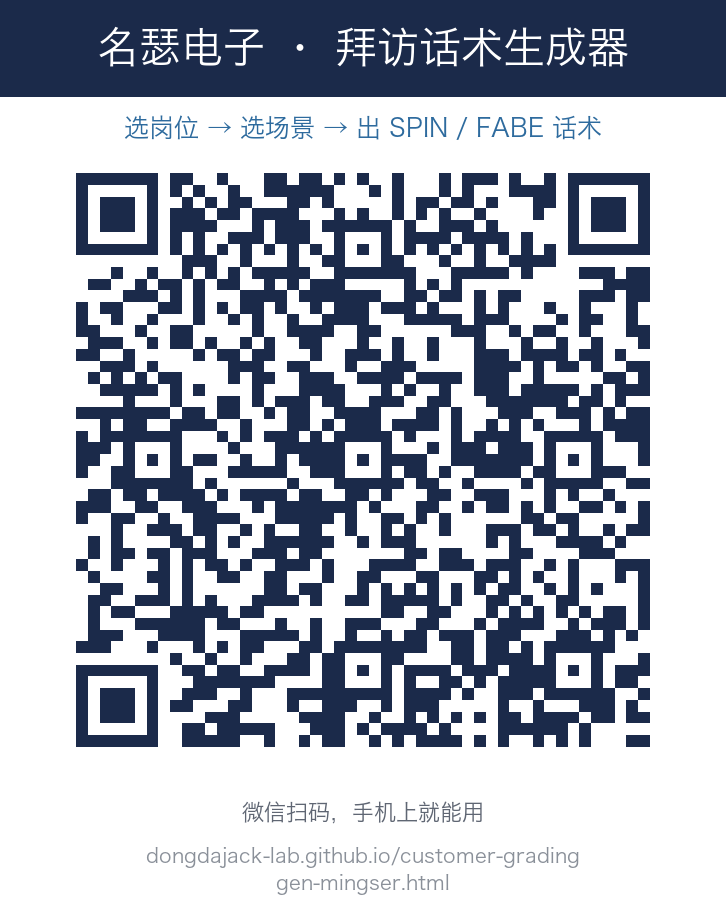
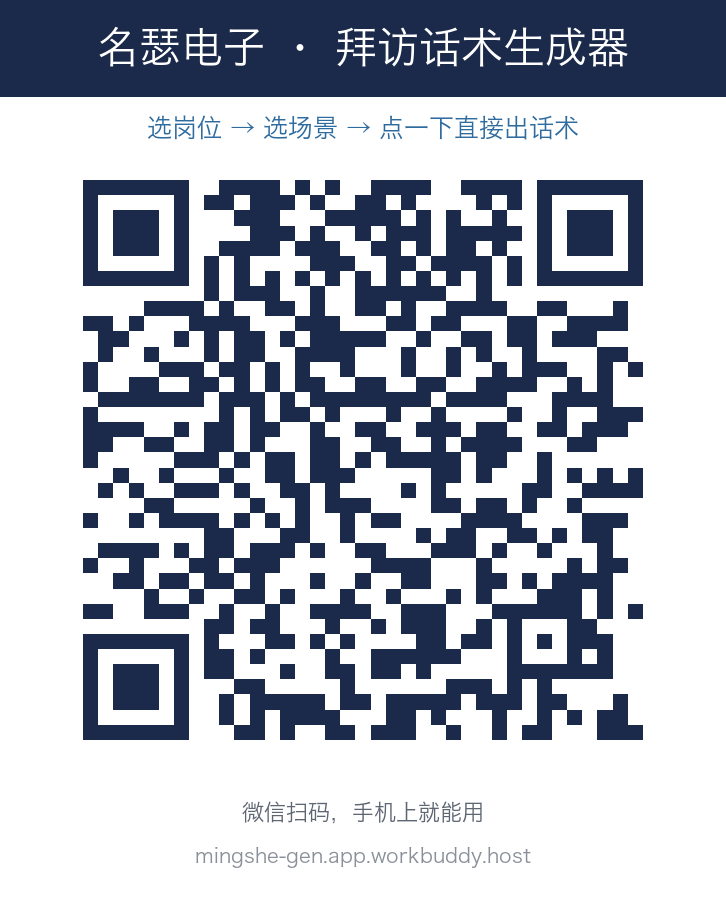
名瑟话术生成器改用独立云网址 mingshe-gen.app.workbuddy.host（点一下直接出话术），二维码与入口页同步

diff --git a/mingser-workshop.html b/mingser-workshop.html
@@ -181,10 +181,10 @@
             <div class="card">
                 <span class="tag" style="background:#B85042;">实战工具</span>
                 <h2>拜访话术生成器</h2>
-                <p class="desc">选岗位＋行业＋场景，出一套<br>SPIN 四问 / FABE / 异议应对 / 开场消息</p>
+                <p class="desc">选岗位＋行业＋场景，<b>点一下直接出话术</b><br>SPIN 四问 / FABE / 异议应对 / 开场消息</p>
                 <img src="qr-gen-mingser.png" alt="话术生成器二维码">
                 <div class="url">
-                    <a href="https://dongdajack-lab.github.io/customer-grading/gen-mingser.html" target="_blank">https://dongdajack-lab.github.io/customer-grading/gen-mingser.html</a>
+                    <a href="https://mingshe-gen.app.workbuddy.host/" target="_blank">https://mingshe-gen.app.workbuddy.host/</a>
                     <button class="copy" onclick="copy(this)">复制</button>
                 </div>
             </div>
